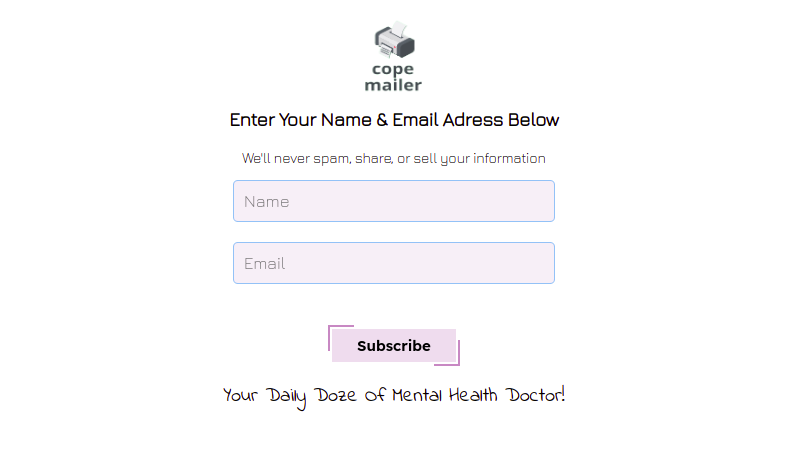
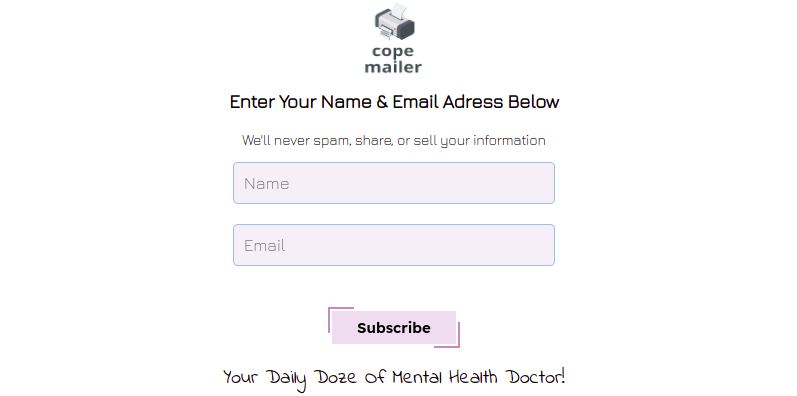
image tweek

diff --git a/README.md b/README.md
@@ -157,5 +157,5 @@ The page will reload when you make changes, You may also see any lint errors in 
 **2.5 Fill Input Form With Valid Details & Submit To Receive Email**
 
 <p align="center">
-<img align="left" width="500" src="Spec.md/InputBox.png" alt="Cryptobyte logo" />
+<img align="left" width="550" src="Spec.md/InputBox.png" alt="Cryptobyte logo" />
 <p>
